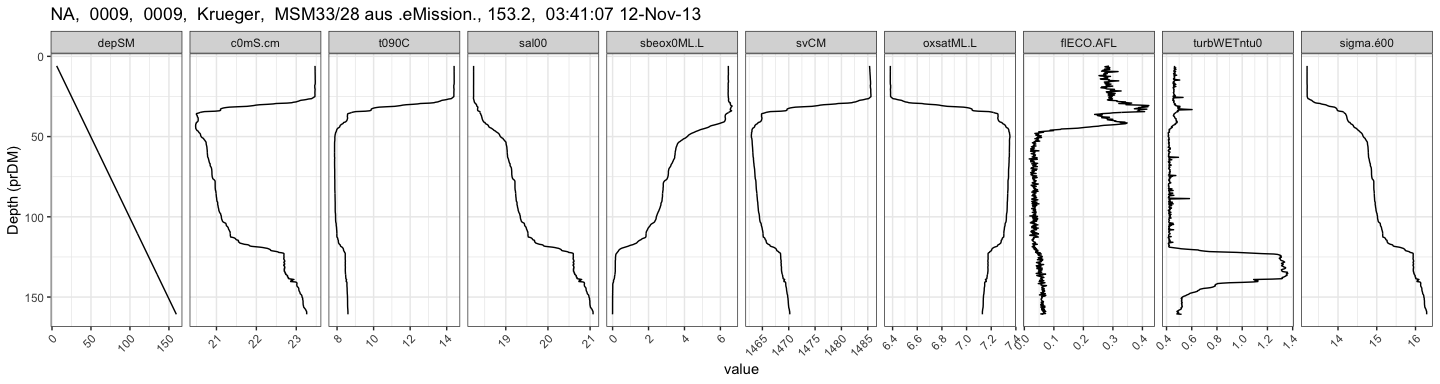
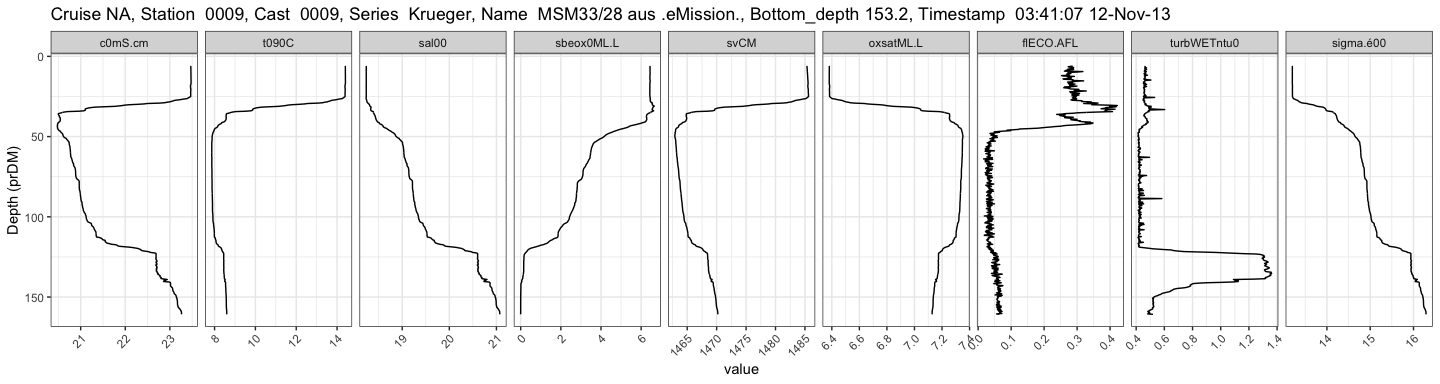
- add Metadata names in plot title for clarity - add common 'depvar' parameters to 'not2plot' defaults so that they are not plotted even if 'depvar' is manually set - prettier metadata names for plot titles and pander()-lists.

diff --git a/README.md b/README.md
@@ -40,13 +40,13 @@ knitr::kable(head(Ex1$data))
 pander(Ex1$meta)
 ```
 
--   **cruise**: EMB-100
--   **station**: 0001
--   **cast**: 0001
--   **series**: Kiki
--   **name**: STOL aus .eMission.
--   **bottom.depth**: 18.54
--   **timestamp**: 09:18:13 09-APR-15
+-   **Cruise**: EMB-100
+-   **Station**: 0001
+-   **Cast**: 0001
+-   **Series**: Kiki
+-   **Name**: STOL aus .eMission.
+-   **Bottom\_depth**: 18.54
+-   **Timestamp**: 09:18:13 09-APR-15
 
 <!-- end of list -->
 
@@ -77,13 +77,13 @@ knitr::kable(head(Ex2$data))
 pander(Ex2$meta)
 ```
 
--   **cruise**:
--   **station**: 0009
--   **cast**: 0009
--   **series**: Krueger
--   **name**: MSM33/28 aus .eMission.
--   **bottom.depth**: 153.2
--   **timestamp**: 03:41:07 12-Nov-13
+-   **Cruise**:
+-   **Station**: 0009
+-   **Cast**: 0009
+-   **Series**: Krueger
+-   **Name**: MSM33/28 aus .eMission.
+-   **Bottom\_depth**: 153.2
+-   **Timestamp**: 03:41:07 12-Nov-13
 
 <!-- end of list -->
 
